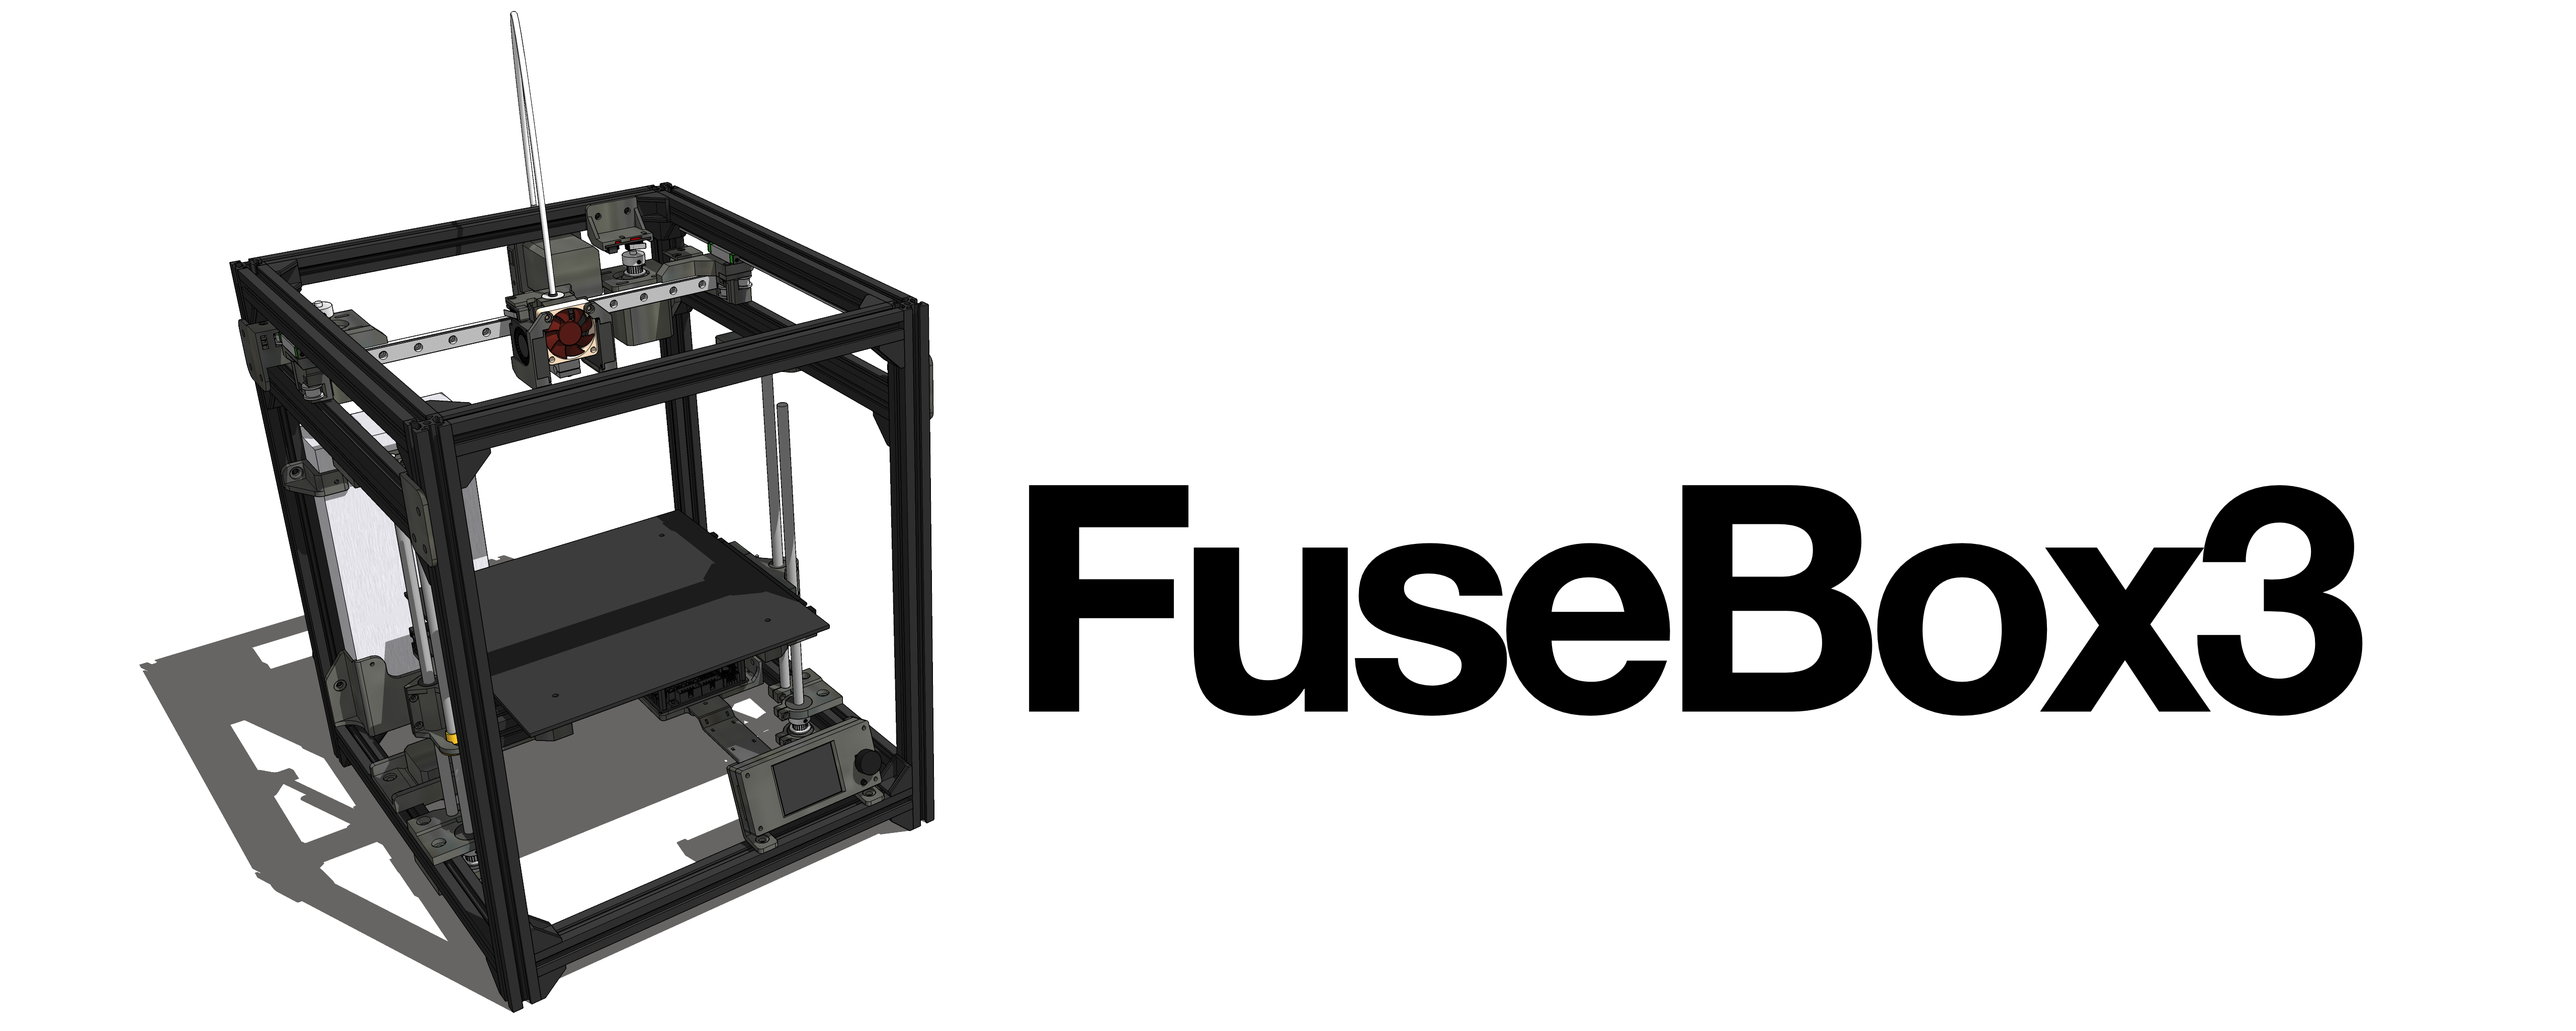
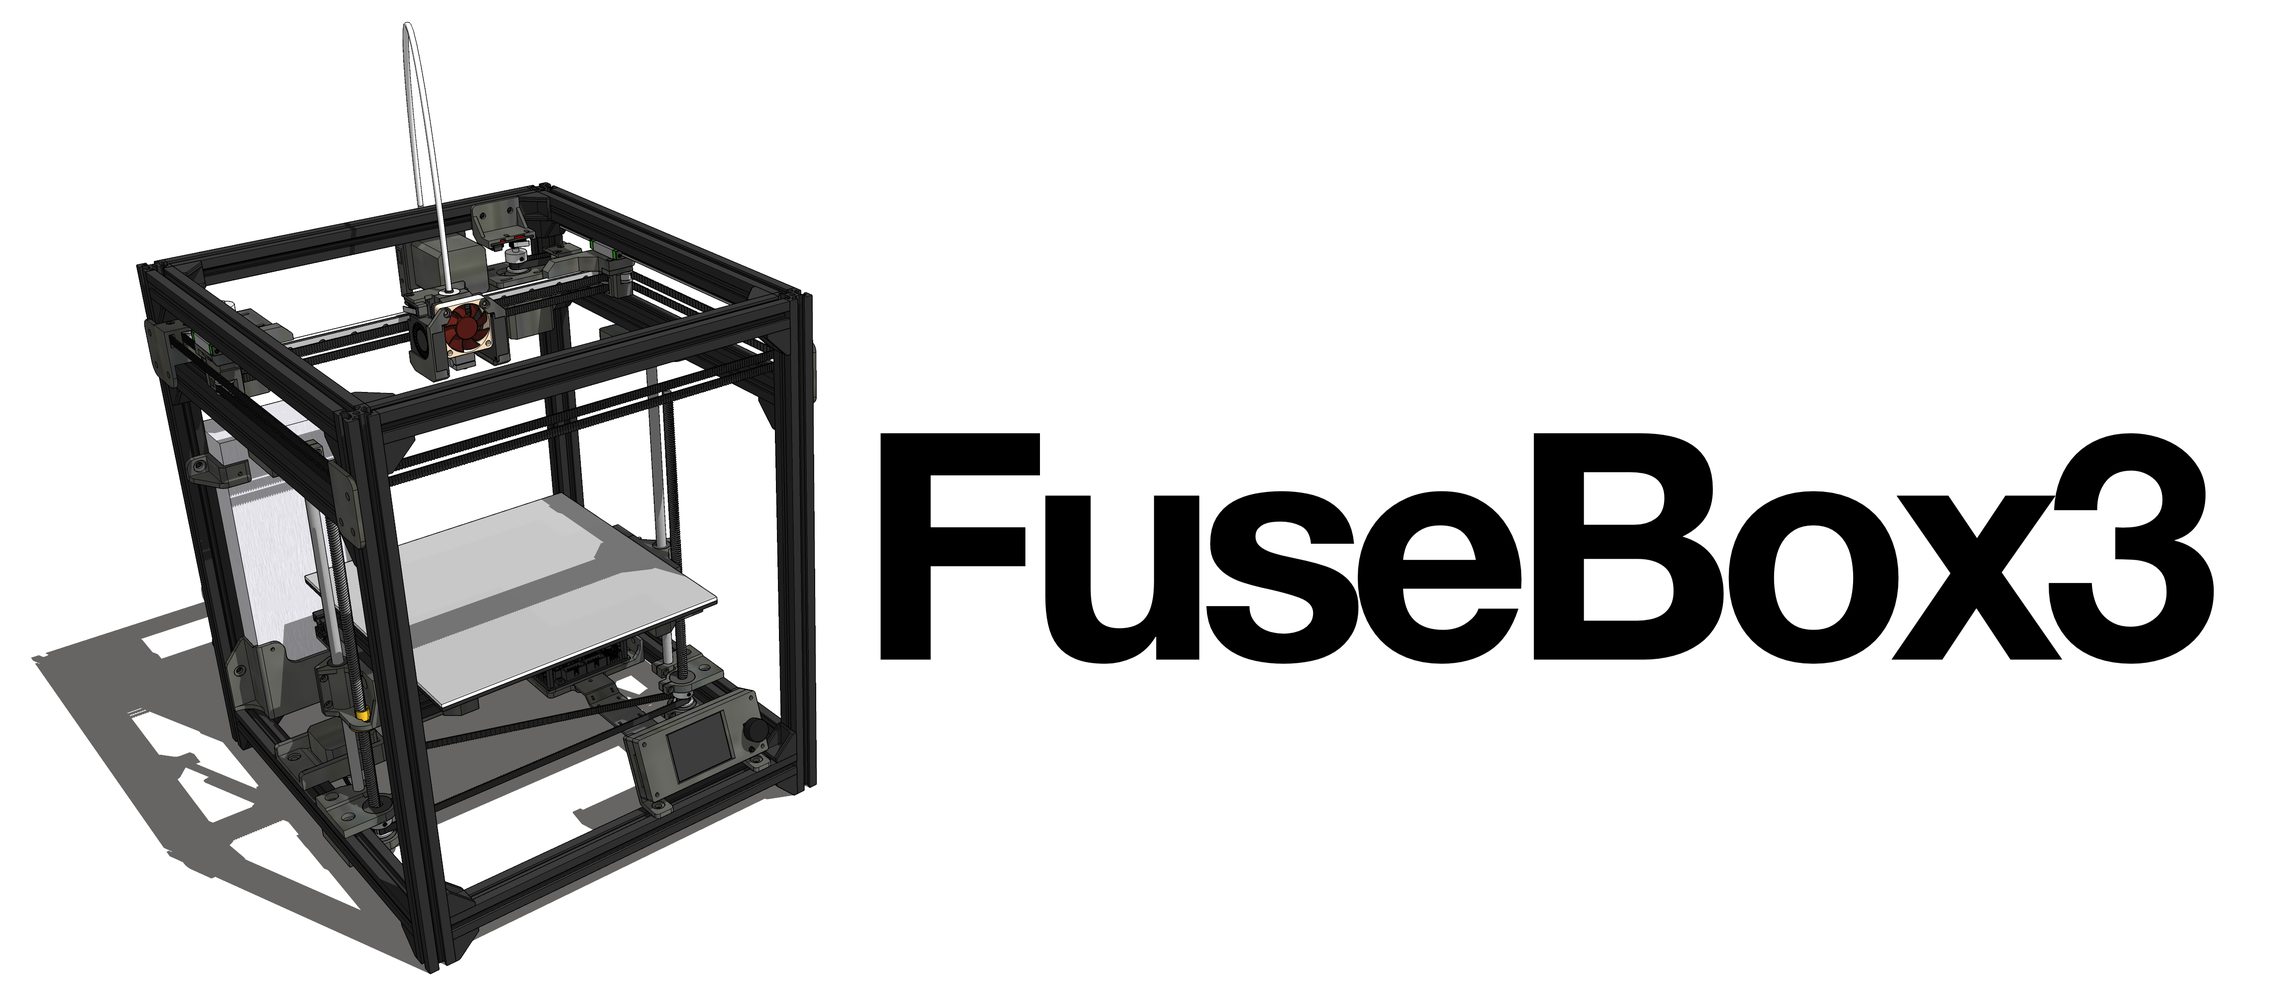
update readme

Changed region(s): [[0.0, 0.0312, 0.9982, 1.0]]

diff --git a/README.md b/README.md
@@ -26,7 +26,7 @@ With clone linear rails becoming cheaper and more easily available, the CoreXY m
 ### Belt path changes, tensioning improvements
 The FuseBox and FuseBox2/R share a similar belt path - the motors are mounted in the corners of the frame, and the motor pulleys serve as the "ends" of the belt path on the back side. This belt path design minimizes the number of idler pulleys needed, at the cost of quite a bit of wasted space in the x direction, necessitating a wider frame.
 
-[TODO: Comparison pic of motor side]
+![FuseBox3](images/4.png)
 
 On the FuseBox3, two additional idlers have been added on the rear (motor) side to bring the belts as close to the sides of the frame as possible. This allows the FuseBox3's frame to be 42mm shorter in the x direction than the FuseBox2R's, while simultaneously having an additional 25mm of x-axis travel. The motors have been relocated to the very back of the machine, just underneath the top rear horizontal extrusion. The motor mounts now have slotted screw holes, allowing the motors to slide for adjusting belt tension. On the FuseBox and FuseBox2/R, tensioning was done by manually pulling on the belts and sliding them into carriage-mounted belt clamps. The new tensioning system should significantly simplify the belt mounting and tensioning process.
 
